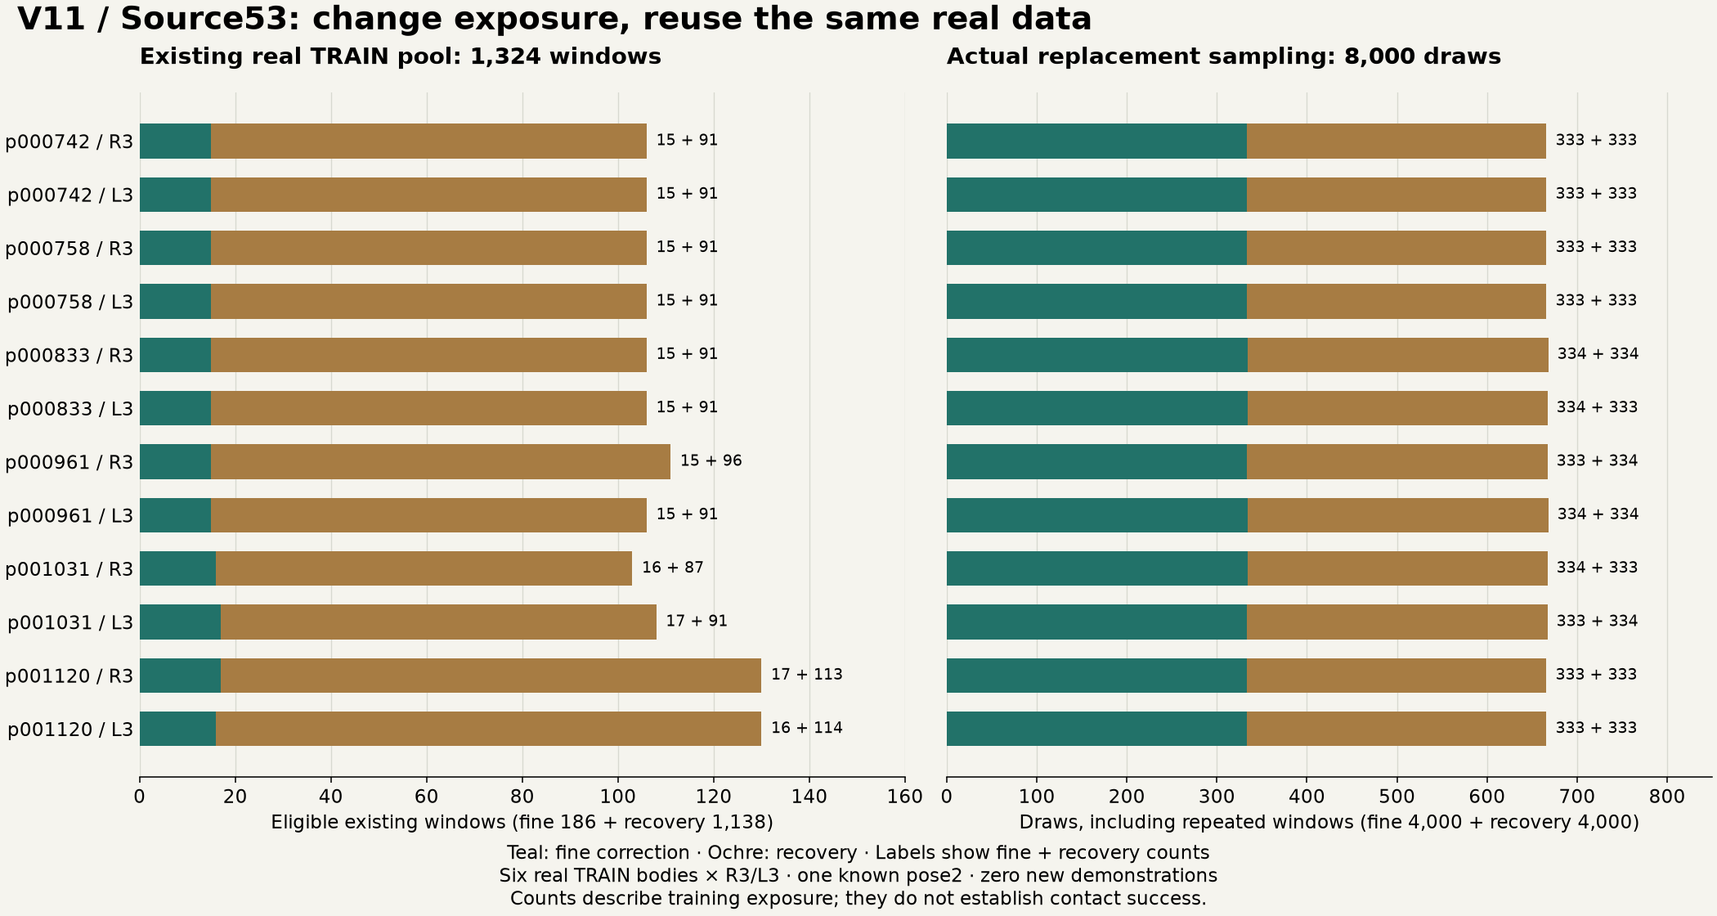
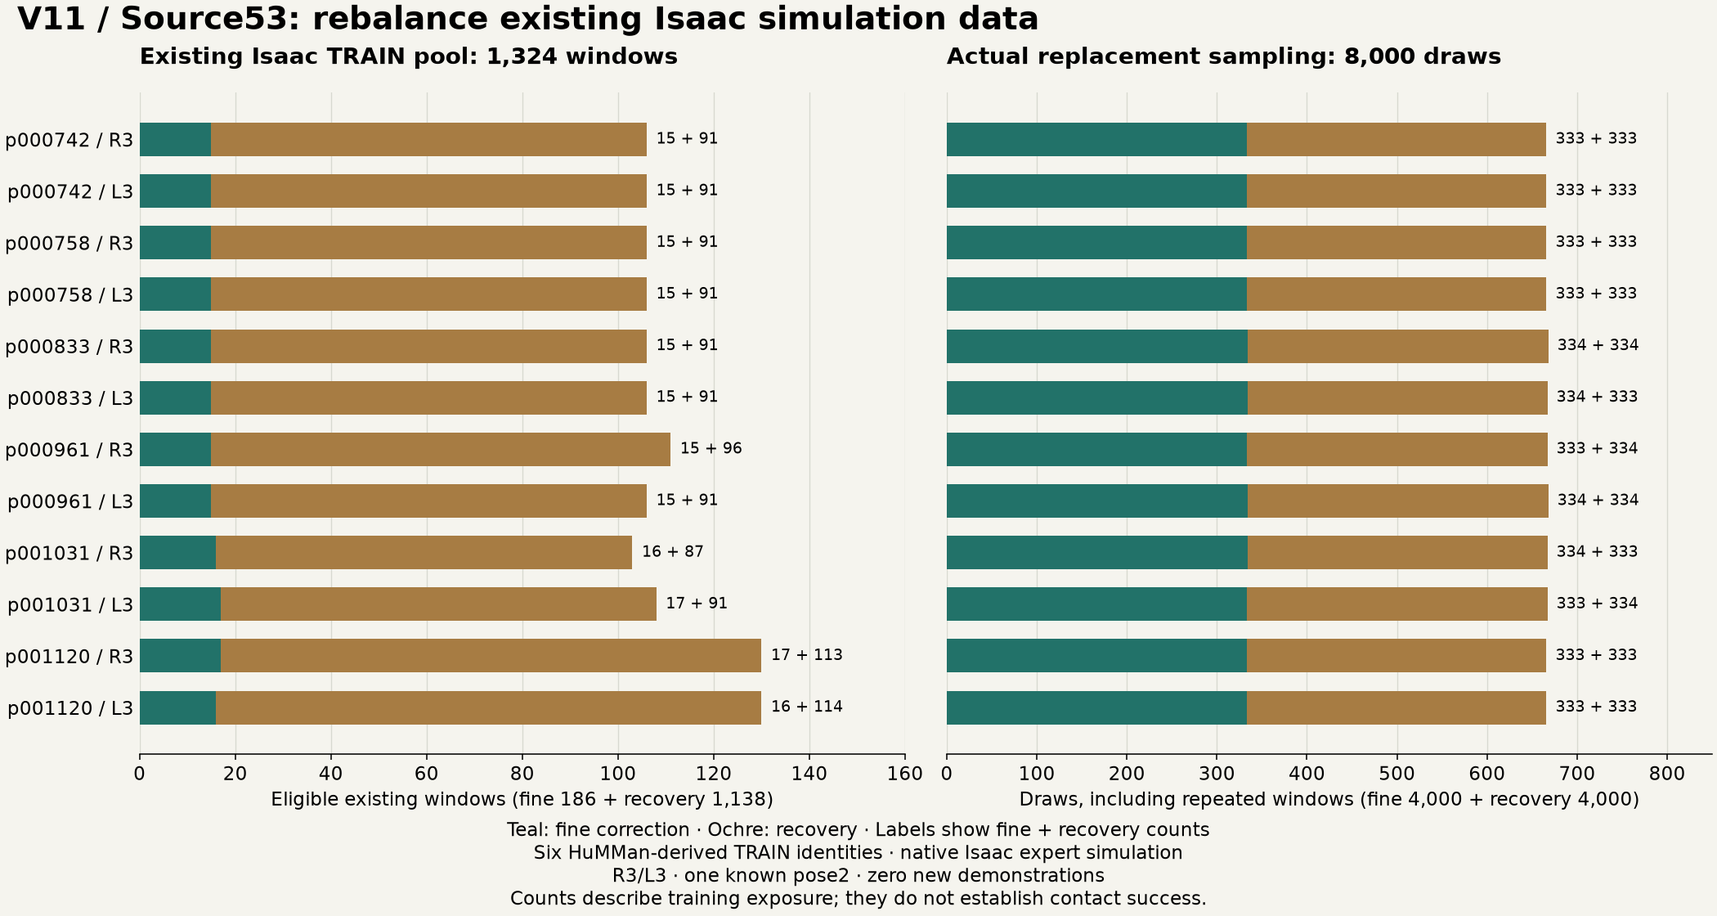
docs(blog): clarify Source53 simulation provenance and rate

diff --git a/docs/drafts/act-recovery-20261106.html b/docs/drafts/act-recovery-20261106.html
@@ -288,17 +288,17 @@
 </section>
 <section class="exp-section reveal" id="iteration13-source53-balanced" lang="zh-CN" aria-labelledby="iteration13-source53-balanced-title" style="scroll-margin-top:var(--spacing-900)">
 <p class="eyebrow caption-3">ACT13 / V11 · Source53 · 四例独立核验关闭 · 开发集仍为 2/4 · 2026 年 11 月 9 日 UTC</p>
-<h2 class="heading-3" id="iteration13-source53-balanced-title">均衡已有真实纠偏，<br>仍未解决两例开发失败。</h2>
-<p class="body-3"><strong>研究问题。</strong> Source52 在原始四例开发测试中仍为 2/4：TRAIN 两例通过，selection VAL 两例在原 120 秒 L2 时限失败。上一节提出采集新恢复示范；本次先检验一个更小的改变：已有真实 TRAIN 数据中，精细纠偏是否因采样比例和身体分布而得到不足的训练曝光？本次闭环结果为同样的 2/4，未解决两个 selection VAL 失败。</p>
-<p class="body-3"><strong>一次采样改变，零条新示范。</strong> 重新清点已获优化准入的真实 TRAIN 数据，得到 <strong>1,324 个窗口：186 个精纠偏、1,138 个恢复</strong>，来自 12 个真实来源，覆盖 <strong>6 个实际 TRAIN 身份 × R3/L3 × 一种已知 pose2</strong>（p000476_a001231_f0023）。这不是新增采集，也没有把 16 个静态计算辅助身份加进真实人体数。仅将原 native32 中的 8 个实测近目标抽样位替换为 <strong>4 个精纠偏 + 4 个恢复</strong>；每个区域各 2 个 R3、2 个 L3，并轮转六个身体。其余 24 个 native 抽样位、planned / conditional / oracle、模型、损失、归一化和物理门槛均保持原配置。</p>
+<h2 class="heading-3" id="iteration13-source53-balanced-title">均衡 Isaac 仿真纠偏，<br>仍未解决两例开发失败。</h2>
+<p class="body-3"><strong>研究问题。</strong> Source52 在原始四例开发测试中仍为 2/4：TRAIN 两例通过，selection VAL 两例在原 120 秒 L2 时限失败。上一节提出采集新恢复示范；本次先检验一个更小的改变：已有 Native Isaac 专家示范仿真窗口中，精细纠偏是否因采样比例和身体分布而得到不足的训练曝光？本次闭环结果为同样的 2/4，未解决两个 selection VAL 失败。</p>
+<p class="body-3"><strong>一次采样改变，零条新示范。</strong> 重新清点已获优化准入的 Native Isaac 专家示范仿真窗口，得到 <strong>1,324 个窗口：186 个精纠偏、1,138 个恢复</strong>，来自 12 个实测仿真来源，覆盖 <strong>6 个 HuMMan 衍生 TRAIN 身份 × R3/L3 × 一种已知 pose2</strong>（p000476_a001231_f0023）。这些窗口来自实际执行的仿真轨迹，不是实体机器人或真人患者实验；本轮没有新增采集，也没有把 16 个静态计算辅助身份加进仿真采集身份数。仅将原 native32 中的 8 个实测近目标抽样位替换为 <strong>4 个精纠偏 + 4 个恢复</strong>；每个区域各 2 个 R3、2 个 L3，并轮转六个身体。其余 24 个 native 抽样位、planned / conditional / oracle、模型、损失、归一化和物理门槛均保持原配置。</p>
 <figure class="exp-recording">
-<img src="assets/act13-source53-existing-pool-and-draws.actual.png" width="2100" height="1120" loading="lazy" alt="Source53现有真实TRAIN池的十二个身体目标分层：精纠偏共186、恢复1138个窗口；实际八千次替换抽样在每个区域和目标内对六个身体均分，每层333或334次，零条新示范，不能代表接触成功">
-<figcaption class="caption-2">左图为已有窗口数，右图为实际训练的替换抽样次数，二者单位不同。绿色为精纠偏，棕色为恢复；每条标出两者计数。<strong>8,000 次抽样包含对旧窗口的重复使用，不是 8,000 条新数据。</strong> 每个区域与目标内，六个身体的实际抽样差最多为 1。<a href="assets/act13-source53-existing-pool-and-draws.actual.png">打开完整采样图</a> · <a href="evidence/act13-source53-balanced-20261109.public.json">查看分层标量与实验范围</a>。</figcaption>
+<img src="assets/act13-source53-existing-pool-and-draws.actual.png" width="2100" height="1120" loading="lazy" alt="Source53现有Native Isaac专家示范仿真窗口池的十二个身体目标分层：精纠偏共186、恢复1138个窗口；实际八千次替换抽样在每个区域和目标内对六个身体均分，每层333或334次，零条新示范，不能代表接触成功">
+<figcaption class="caption-2">左图为已有 Native Isaac 专家示范仿真窗口数，右图为实际训练的替换抽样次数，二者单位不同。绿色为精纠偏，棕色为恢复；每条标出两者计数。<strong>8,000 次抽样包含对旧窗口的重复使用，不是 8,000 条新数据。</strong> 每个区域与目标内，六个 HuMMan 衍生身份的实际抽样差最多为 1。<a href="assets/act13-source53-existing-pool-and-draws.actual.png">打开完整采样图</a> · <a href="evidence/act13-source53-balanced-20261109.public.json">查看分层标量与实验范围</a>。</figcaption>
 </figure>
 <p class="body-3"><strong>实际训练。</strong> 从经 Source52 独立恢复核验的 Source49 第 7,000 步权重热启动，使用<strong>全新 AdamW，实际完成 1,000 次更新</strong>并正常关闭；只评估预声明的最终第 1,000 步候选，validation 仅作诊断。没有恢复旧优化器，历史 20,000 步不能直接加成这份模型的有效梯度谱系。<strong>额外 1,000 次优化本身也是混杂因素</strong>，结果不能仅归因于均衡采样。</p>
 <p class="body-3"><strong>为什么训练完成还不等于贴合。</strong> 仍是 <strong>2,658,823 参数的 state-only ACT</strong>，state17/H2、H20/E10，观测 20 Hz、模型决策 2 Hz；学习的 L2 接近之后由解析 Hall L3 完成接触。ACT 不读取 RGB、深度或 Hall，这不是多模态 VLA，也不是学习到的力控制。离线动作拟合与采样计数无法证明命令和实测位姿同时满足原交接条件，更不能替代连续接触、合格 HOLD、释放、归位及正常退出的独立核验。</p>
 <div id="iteration13-source53-known4-closed" aria-labelledby="iteration13-source53-physical-title">
-<h3 class="heading-5" id="iteration13-source53-physical-title">四例实际执行，原始分母仍是 2/4。</h3>
+<h3 class="heading-5" id="iteration13-source53-physical-title">四例实际执行，两例通过（50%）。</h3>
 <p class="body-3"><strong>实际闭环结果。</strong> Source53 独立核验为 <strong>2/4（50%），模型未验收</strong>。TRAIN p001120 的 R3/L3 均完成原始接触、合格 HOLD、释放和归位；selection VAL p000923 的 R3/L3 均在原 <strong>120 秒 L2 时限</strong>失败，未接触、未进入 HOLD。四例全部执行，worker 与 CPU 子进程正常关闭，CPU 均退出码 0、已回收且无终止信号；没有基础设施失败。与 Source52 相同的两个案例通过，<strong>固定四例的成功率没有提高</strong>。</p>
 <div class="table-scroll exp-table" role="region" tabindex="0" aria-label="Source53四个已关闭开发案例的独立物理结果"><table><thead><tr><th class="caption-3" scope="col">已知案例 · pose1</th><th class="caption-3" scope="col">ACT 查询</th><th class="caption-3" scope="col">接触力峰值</th><th class="caption-3" scope="col">合格 HOLD</th><th class="caption-3" scope="col">HOLD 最大倾角</th><th class="caption-3" scope="col">原始资格</th></tr></thead><tbody>
 <tr><th class="body-6" scope="row">TRAIN p001120 / R3</th><td class="body-6">42</td><td class="body-6">4.0127 N</td><td class="body-6">3.000 s</td><td class="body-6">1.49991°</td><td class="body-6">通过；释放与归位通过</td></tr>
@@ -308,19 +308,19 @@
 </tbody></table></div>
 <p class="body-6">两例 TRAIN 的合格 HOLD 同时满足原始力与平面条件，连续 720 个物理 tick（3 秒），禁碰、非前端与唇边力均为零，随后通过 48 tick 释放确认与 120 tick 归位稳定。它不同于 4.700 / 4.721 秒的单纯接触时长。VAL 未接触，倾角未知，以“—”表示，不能填为 0°；负例的力与时长为原生报告标量，不构成合格接触。</p>
 <figure class="exp-recording">
-<div class="video-top"><strong class="title-3">Source53 · 实际 TRAIN R3 合格回合</strong><span class="caption-2">学习 ACT 接近 → 解析 Hall 接触</span></div>
-<div class="video-box" data-state="loading" aria-busy="true"><video id="iteration13-source53-p001120-r3-video" controls playsinline preload="metadata" poster="assets/act13-source53-known-p001120-r3.poster.jpg" width="640" height="360" aria-describedby="iteration13-source53-p001120-r3-caption" aria-label="真实 Source53 V11 实际 TRAIN R3 合格回合，已知开发案例，42 次 ACT 学习接近查询，之后由解析 Hall L3 完成接触、保持、释放和归位；无专家L2兜底，模型整体2/4未验收，非留出结果"><source src="assets/act13-source53-known-p001120-r3.actual.mp4" type="video/mp4">可下载<a href="assets/act13-source53-known-p001120-r3.actual.mp4">完整实际录像</a>。</video><div class="video-state" role="status" aria-live="polite"><div class="video-skeleton" aria-hidden="true"><span></span><span></span></div><span class="caption-2" data-recording-message>Loading the actual recording…</span><button class="button-sm" data-recording-retry hidden type="button">Try loading again</button></div></div>
-<figcaption class="caption-2" id="iteration13-source53-p001120-r3-caption"><strong>真实学习模型运动；已知 TRAIN 单例，非留出结果。</strong> 42 次 ACT 学习接近查询，之后由解析 Hall L3 完成接触、保持、释放和归位，没有专家 L2 兜底。本例原物理资格与完整退出均通过，但四例模型结果仍仅 2/4。 保留全部 1,025 帧，640×360、10 fps：102.5 秒视频 / 102.500 秒原生仿真；末尾没有未捕获的物理 tick。 海报为原第 484 帧、仿真 48.5 秒，不凭图像推断 HOLD 阶段或接触力。完整录像已解码，无生成补帧。<strong>按仿真时间播放，不代表实时执行</strong>：probe 为 1,338.906 秒，worker 总时长为 1,532.004 秒；probe 不含更早的 Kit 启动、结果序列化及退出。<a href="assets/act13-source53-known-p001120-r3.actual.mp4">打开完整 MP4</a> · <a href="evidence/act13-source53-balanced-20261109.public.json">原资格、帧时钟与媒体来源</a>。</figcaption>
+<div class="video-top"><strong class="title-3">Source53 · Isaac 仿真 TRAIN R3 合格回合</strong><span class="caption-2">学习 ACT 接近 → 解析 Hall 接触</span></div>
+<div class="video-box" data-state="loading" aria-busy="true"><video id="iteration13-source53-p001120-r3-video" controls playsinline preload="metadata" poster="assets/act13-source53-known-p001120-r3.poster.jpg" width="640" height="360" aria-describedby="iteration13-source53-p001120-r3-caption" aria-label="实际 Isaac 仿真 Source53 V11 实际 TRAIN R3 合格回合，已知开发案例，42 次 ACT 学习接近查询，之后由解析 Hall L3 完成接触、保持、释放和归位；无专家L2兜底，模型整体2/4未验收，非留出结果"><source src="assets/act13-source53-known-p001120-r3.actual.mp4" type="video/mp4">可下载<a href="assets/act13-source53-known-p001120-r3.actual.mp4">完整实际录像</a>。</video><div class="video-state" role="status" aria-live="polite"><div class="video-skeleton" aria-hidden="true"><span></span><span></span></div><span class="caption-2" data-recording-message>Loading the actual recording…</span><button class="button-sm" data-recording-retry hidden type="button">Try loading again</button></div></div>
+<figcaption class="caption-2" id="iteration13-source53-p001120-r3-caption"><strong>实际学习策略的 Isaac 仿真录像；已知 TRAIN 单例，非留出结果。</strong> 42 次 ACT 学习接近查询，之后由解析 Hall L3 完成接触、保持、释放和归位，没有专家 L2 兜底。本例原物理资格与完整退出均通过，但四例模型结果仍仅 2/4。 保留全部 1,025 帧，640×360、10 fps：102.5 秒视频 / 102.500 秒原生仿真；末尾没有未捕获的物理 tick。 海报为原第 484 帧、仿真 48.5 秒，不凭图像推断 HOLD 阶段或接触力。完整录像已解码，无生成补帧。<strong>按仿真时间播放，不代表实时执行</strong>：probe 为 1,338.906 秒，worker 总时长为 1,532.004 秒；probe 不含更早的 Kit 启动、结果序列化及退出。<a href="assets/act13-source53-known-p001120-r3.actual.mp4">打开完整 MP4</a> · <a href="evidence/act13-source53-balanced-20261109.public.json">原资格、帧时钟与媒体来源</a>。</figcaption>
 </figure>
 <figure class="exp-recording">
-<div class="video-top"><strong class="title-3">Source53 · 实际 selection VAL R3 负例</strong><span class="caption-2">原 120 秒 L2 时限 · 无接触、无 HOLD</span></div>
-<div class="video-box" data-state="loading" aria-busy="true"><video id="iteration13-source53-p000923-r3-video" controls playsinline preload="metadata" poster="assets/act13-source53-known-p000923-r3.poster.jpg" width="640" height="360" aria-describedby="iteration13-source53-p000923-r3-caption" aria-label="真实 Source53 V11 实际 selection VAL R3 负例，已知开发案例，241 次 ACT 学习接近查询后触及原 120 秒累计 L2 时限；无接触、无 HOLD；无专家L2兜底，模型整体2/4未验收，非留出结果"><source src="assets/act13-source53-known-p000923-r3.actual.mp4" type="video/mp4">可下载<a href="assets/act13-source53-known-p000923-r3.actual.mp4">完整实际录像</a>。</video><div class="video-state" role="status" aria-live="polite"><div class="video-skeleton" aria-hidden="true"><span></span><span></span></div><span class="caption-2" data-recording-message>Loading the actual recording…</span><button class="button-sm" data-recording-retry hidden type="button">Try loading again</button></div></div>
-<figcaption class="caption-2" id="iteration13-source53-p000923-r3-caption"><strong>真实学习模型运动；已知 selection VAL 单例，非留出结果。</strong> 241 次 ACT 学习接近查询后触及原 120 秒累计 L2 时限；无接触、无 HOLD，没有专家 L2 兜底。全程无专家 L2 兜底，不能凭贴近的画面判定接触。 保留全部 1,210 帧，640×360、10 fps：121 秒视频 / 121.004 秒原生仿真，含 1 秒准备阶段，L2 时限仍为 120 秒；末尾 1 个物理 tick 未捕获图像。 海报为原第 899 帧、仿真 90.0 秒，不凭图像推断 HOLD 阶段或接触力。完整录像已解码，无生成补帧。<strong>按仿真时间播放，不代表实时执行</strong>：probe 为 1,378.828 秒，worker 总时长为 1,561.503 秒；probe 不含更早的 Kit 启动、结果序列化及退出。<a href="assets/act13-source53-known-p000923-r3.actual.mp4">打开完整 MP4</a> · <a href="evidence/act13-source53-balanced-20261109.public.json">原资格、帧时钟与媒体来源</a>。</figcaption>
+<div class="video-top"><strong class="title-3">Source53 · Isaac 仿真 selection VAL R3 负例</strong><span class="caption-2">原 120 秒 L2 时限 · 无接触、无 HOLD</span></div>
+<div class="video-box" data-state="loading" aria-busy="true"><video id="iteration13-source53-p000923-r3-video" controls playsinline preload="metadata" poster="assets/act13-source53-known-p000923-r3.poster.jpg" width="640" height="360" aria-describedby="iteration13-source53-p000923-r3-caption" aria-label="实际 Isaac 仿真 Source53 V11 实际 selection VAL R3 负例，已知开发案例，241 次 ACT 学习接近查询后触及原 120 秒累计 L2 时限；无接触、无 HOLD；无专家L2兜底，模型整体2/4未验收，非留出结果"><source src="assets/act13-source53-known-p000923-r3.actual.mp4" type="video/mp4">可下载<a href="assets/act13-source53-known-p000923-r3.actual.mp4">完整实际录像</a>。</video><div class="video-state" role="status" aria-live="polite"><div class="video-skeleton" aria-hidden="true"><span></span><span></span></div><span class="caption-2" data-recording-message>Loading the actual recording…</span><button class="button-sm" data-recording-retry hidden type="button">Try loading again</button></div></div>
+<figcaption class="caption-2" id="iteration13-source53-p000923-r3-caption"><strong>实际学习策略的 Isaac 仿真录像；已知 selection VAL 单例，非留出结果。</strong> 241 次 ACT 学习接近查询后触及原 120 秒累计 L2 时限；无接触、无 HOLD，没有专家 L2 兜底。全程无专家 L2 兜底，不能凭贴近的画面判定接触。 保留全部 1,210 帧，640×360、10 fps：121 秒视频 / 121.004 秒原生仿真，含 1 秒准备阶段，L2 时限仍为 120 秒；末尾 1 个物理 tick 未捕获图像。 海报为原第 899 帧、仿真 90.0 秒，不凭图像推断 HOLD 阶段或接触力。完整录像已解码，无生成补帧。<strong>按仿真时间播放，不代表实时执行</strong>：probe 为 1,378.828 秒，worker 总时长为 1,561.503 秒；probe 不含更早的 Kit 启动、结果序列化及退出。<a href="assets/act13-source53-known-p000923-r3.actual.mp4">打开完整 MP4</a> · <a href="evidence/act13-source53-balanced-20261109.public.json">原资格、帧时钟与媒体来源</a>。</figcaption>
 </figure>
-<p class="body-6">同批另外两段完整录像：<a href="assets/act13-source53-known-p001120-l3.actual.mp4">TRAIN L3 合格回合</a>（969 帧，96.9 秒视频 / 96.946 秒仿真，末尾 11 tick 无图像）与<a href="assets/act13-source53-known-p000923-l3.actual.mp4">selection VAL L3 负例</a>（1,210 帧，121 秒视频 / 121.004 秒仿真，末尾 1 tick 无图像）。四段均为本次真实回合、全部捕获帧且完整解码；物理结论来自独立原生核验。</p>
+<p class="body-6">同批另外两段完整录像：<a href="assets/act13-source53-known-p001120-l3.actual.mp4">TRAIN L3 合格回合</a>（969 帧，96.9 秒视频 / 96.946 秒仿真，末尾 11 tick 无图像）与<a href="assets/act13-source53-known-p000923-l3.actual.mp4">selection VAL L3 负例</a>（1,210 帧，121 秒视频 / 121.004 秒仿真，末尾 1 tick 无图像）。四段均为本次实际 Isaac 仿真回合、全部捕获帧且完整解码；物理结论来自独立原生核验。</p>
 <p class="body-6">固定 pose1 为 p000474_a001230_f0000。selection VAL 曾用于模型选择并多次开发测试，属于已知开发证据，不能称为留出评估。<strong>Fresh 仍未开放、执行 0 例，成功率未定义</strong>，不是 0/32。</p>
 </div>
-<p class="body-3"><strong>局限与下一步动因。</strong> <strong>这次均衡已有数据的 1,000 步控制不足以解决两个已知 selection VAL 失败。</strong> 它不能证明所有重采样都无效，也不能证明数据覆盖是唯一原因。下一项实验的动因是检验具有真实完整 E10 未来的恢复监督；采集准备仍在核验，不代表已经取得新示范或完成下一轮训练。当前结果仅适用于给定目标的 state-only ACT R3/L3 接近加解析 Hall 接触，不支持完整多模态 VLA、全部十点、Fresh 泛化、真实机器人或临床结论。</p>
+<p class="body-3"><strong>局限与下一步动因。</strong> <strong>这次均衡已有数据的 1,000 步控制不足以解决两个已知 selection VAL 失败。</strong> 它不能证明所有重采样都无效，也不能证明数据覆盖是唯一原因。下一项实验的动因是检验具有实测仿真且完整 E10 未来的恢复监督；采集准备仍在核验，不代表已经取得新示范或完成下一轮训练。当前结果仅适用于给定目标的 state-only ACT R3/L3 接近加解析 Hall 接触，不支持完整多模态 VLA、全部十点、Fresh 泛化、真实机器人或临床结论。</p>
 </section>
 <section class="exp-section reveal" id="evaluation" aria-labelledby="evaluation-title"><p class="eyebrow caption-3">Frozen before training</p><h2 class="heading-3" id="evaluation-title">Eight fresh identities.<br>Thirty two declared scenarios.</h2>
 <p class="body-3">The earlier p001030/p000956 benchmark is now development visible. A new deterministic cohort excludes all previously reconstructed development and evaluation identities. Its eight body identities, two known seated poses and R3/L3 define <strong>32 scenarios per system</strong>, frozen before new training. These identities enter neither optimization nor checkpoint selection.</p>

diff --git a/scripts/plot_act13_source53_sampling.py b/scripts/plot_act13_source53_sampling.py
@@ -33,12 +33,12 @@ for ax, mode in zip(axes, ['pool', 'draws']):
     ax.tick_params(axis='y', length=0)
 axes[0].set_yticks(y, labels)
 axes[0].invert_yaxis()
-axes[0].set_title('Existing real TRAIN pool: 1,324 windows', loc='left', pad=18, weight='bold')
+axes[0].set_title('Existing Isaac TRAIN pool: 1,324 windows', loc='left', pad=18, weight='bold')
 axes[1].set_title('Actual replacement sampling: 8,000 draws', loc='left', pad=18, weight='bold')
 axes[0].set_xlabel('Eligible existing windows (fine 186 + recovery 1,138)')
 axes[1].set_xlabel('Draws, including repeated windows (fine 4,000 + recovery 4,000)')
-fig.suptitle('V11 / Source53: change exposure, reuse the same real data', x=.01, ha='left', weight='bold', fontsize=20)
-fig.supxlabel('Teal: fine correction · Ochre: recovery · Labels show fine + recovery counts\nSix real TRAIN bodies × R3/L3 · one known pose2 · zero new demonstrations\nCounts describe training exposure; they do not establish contact success.', fontsize=12)
+fig.suptitle('V11 / Source53: rebalance existing Isaac simulation data', x=.01, ha='left', weight='bold', fontsize=20)
+fig.supxlabel('Teal: fine correction · Ochre: recovery · Labels show fine + recovery counts\nSix HuMMan-derived TRAIN identities · native Isaac expert simulation\nR3/L3 · one known pose2 · zero new demonstrations\nCounts describe training exposure; they do not establish contact success.', fontsize=12)
 out = DRAFT / 'assets/act13-source53-existing-pool-and-draws.actual.png'
 fig.savefig(out, dpi=140, facecolor=fig.get_facecolor())
 print(out)

diff --git a/demo_tests/test_act13_source53_presentation.py b/demo_tests/test_act13_source53_presentation.py
@@ -45,6 +45,9 @@ class Source53Presentation(unittest.TestCase):
         self.assertEqual(sum(x['count'] for x in e['sampling']['actual_strata']), 8000)
         self.assertEqual(e['pool']['new_demonstrations'], 0)
         self.assertEqual(len({x['body'] for x in e['pool']['strata']}), 6)
+        self.assertEqual(e['pool'].get('origin'), 'native Isaac simulation expert-demonstration windows')
+        self.assertEqual(e['pool'].get('identity_context'), 'six HuMMan-derived TRAIN body identities; not six real-patient robot experiments')
+        self.assertEqual(e['scope'].get('recordings_context'), 'actual learned-policy Isaac simulation recordings; not physical robot recordings')
         self.assertFalse(e['scope']['fresh_opened'])
         for token in ['/Users/', '/opt/', '/workspace/', '.npz', '.npy', 'row_indices']:
             self.assertNotIn(token, p.read_text())
